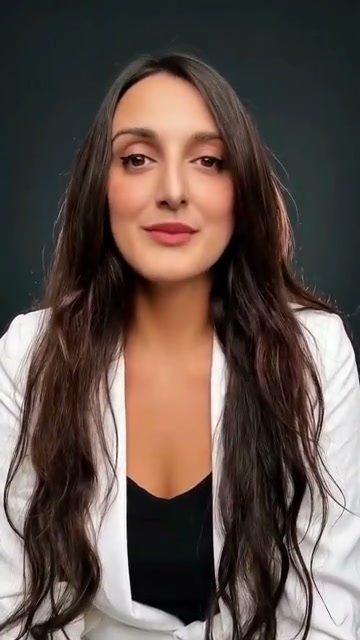
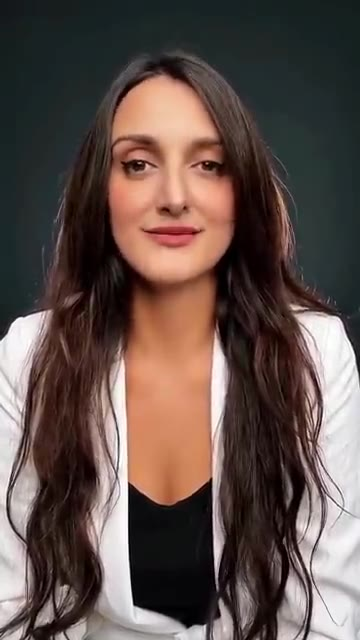
feat(видео): виджет с ленивой загрузкой, обложка — кадр 15.6 с
- <video> без src до клика: страница не тянет 963 КБ видео при загрузке
- обложка-кадр со спокойным лицом (jpg 29 КБ + webp 20 КБ вместо 41 КБ)
- кружок в углу появляется после 400 px прокрутки, прячется крестиком
- закрытие по Esc и клику по фону, пауза при закрытии

diff --git a/site/site.css b/site/site.css
@@ -3232,3 +3232,42 @@ h2.levels-title{position:relative;z-index:1;max-width:1180px;margin:0 auto clamp
 @media (max-width:560px){
   .quiz-ways{grid-template-columns:repeat(2,minmax(0,1fr));}
 }
+
+/* ═══ Видеовиджет: кружок в углу + окно с видео ═══════════════════
+   Обложка — обычная картинка (кадр 15.6 с), само видео грузится
+   только по клику: <video> без src, скрипт подставляет его при
+   открытии. Поэтому виджет ничего не стоит при загрузке страницы. */
+.vw{position:fixed;right:clamp(12px,2vw,26px);bottom:clamp(12px,2vw,26px);z-index:55;}
+.vw[hidden]{display:none;}
+.vw-bubble{
+  display:block;width:clamp(74px,8vw,104px);aspect-ratio:1;padding:0;
+  border:2px solid rgba(241,233,220,.22);border-radius:50%;overflow:hidden;
+  background:var(--card);cursor:pointer;position:relative;
+  box-shadow:0 14px 34px rgba(0,0,0,.42);
+  transition:transform .25s var(--ease),border-color .25s var(--ease);
+}
+.vw-bubble:hover{transform:translateY(-2px) scale(1.03);border-color:var(--green);}
+.vw-bubble img{width:100%;height:100%;object-fit:cover;object-position:50% 22%;display:block;}
+/* треугольник «плей» поверх кадра */
+.vw-play{
+  position:absolute;left:50%;bottom:9%;translate:-50% 0;
+  width:26px;height:26px;border-radius:50%;background:var(--green);
+  display:grid;place-items:center;
+}
+.vw-play::before{content:"";border:6px solid transparent;border-left:9px solid var(--graphite);margin-left:4px;}
+.vw-hide{
+  position:absolute;top:-4px;right:-4px;width:22px;height:22px;padding:0;
+  border:1px solid var(--line);border-radius:50%;background:var(--card);
+  color:var(--grey);font:400 14px/1 var(--sans);cursor:pointer;
+}
+.vw-hide:hover{color:var(--cream);border-color:var(--green);}
+.vw-card{position:relative;width:min(360px,86vw);}
+.vw-video{
+  display:block;width:100%;height:auto;aspect-ratio:9/16;
+  border-radius:var(--radius);background:#000;
+}
+.vw-x{position:absolute;top:-46px;right:0;}
+@media (prefers-reduced-motion:reduce){
+  .vw-bubble{transition:none;}
+  .vw-bubble:hover{transform:none;}
+}

diff --git a/site/site.js b/site/site.js
@@ -770,4 +770,45 @@
     faqList.addEventListener('toggle', syncFaqHint, true);
   }
 
+  // Видеовиджет. Ключевое: у <video> нет src до первого клика — иначе
+  // браузер начинает тянуть файл вместе со страницей. Src ставим один
+  // раз при открытии, дальше видео уже в кеше и открывается мгновенно.
+  var vw = document.getElementById('video-widget');
+  var vwModal = document.getElementById('video-modal');
+  if (vw && vwModal) {
+    var vwVideo = vwModal.querySelector('.vw-video');
+    var vwSrc = 'assets/ash-video-widget-lite.mp4';
+    var vwOpen = function () {
+      if (!vwVideo.getAttribute('src')) { vwVideo.setAttribute('src', vwSrc); }
+      vwModal.hidden = false;
+      document.body.style.overflow = 'hidden';
+      vwModal.querySelector('.vw-x').focus();
+      var p = vwVideo.play();
+      if (p && p.catch) { p.catch(function () {}); }
+    };
+    var vwClose = function () {
+      vwVideo.pause();
+      vwModal.hidden = true;
+      document.body.style.overflow = '';
+      vw.querySelector('.vw-bubble').focus();
+    };
+    vw.querySelector('.vw-bubble').addEventListener('click', vwOpen);
+    var vwDismissed = false;
+    vw.querySelector('.vw-hide').addEventListener('click', function () {
+      vwDismissed = true;
+      vw.hidden = true;
+    });
+    vwModal.addEventListener('click', function (e) {
+      if (e.target.closest('[data-vw-close]')) { vwClose(); }
+    });
+    document.addEventListener('keydown', function (e) {
+      if (e.key === 'Escape' && !vwModal.hidden) { vwClose(); }
+    });
+    // пока пользователь наверху страницы, кружок не мешает первому экрану
+    vw.hidden = true;
+    var vwToggle = function () { vw.hidden = vwDismissed || window.scrollY < 400; };
+    vwToggle();
+    window.addEventListener('scroll', vwToggle, { passive: true });
+  }
+
 })();

diff --git a/site/index.html b/site/index.html
@@ -1325,6 +1325,32 @@
     </div>
   </div>
 
+  <!-- Видеовиджет: кружок в углу экрана.
+       До клика не грузится ни байта видео — виден только кадр-обложка
+       (assets/ash-video-widget-poster.*, кадр 15.6 с). Файл видео
+       подставляется в <video> скриптом в момент открытия окна,
+       поэтому виджет не влияет на скорость загрузки страницы. -->
+  <div class="vw" id="video-widget">
+    <button class="vw-bubble" type="button" aria-label="Смотреть видео о нас">
+      <picture>
+        <source srcset="assets/ash-video-widget-poster.webp" type="image/webp">
+        <img src="assets/ash-video-widget-poster.jpg" alt="" width="360" height="640" loading="lazy" decoding="async">
+      </picture>
+      <span class="vw-play" aria-hidden="true"></span>
+    </button>
+    <button class="vw-hide" type="button" aria-label="Скрыть видео">×</button>
+  </div>
+
+  <div class="lv-modal vw-modal" id="video-modal" hidden>
+    <div class="lv-modal-back" data-vw-close></div>
+    <div class="vw-card" role="dialog" aria-modal="true" aria-label="Видео о нас">
+      <button class="lv-modal-x vw-x" type="button" data-vw-close aria-label="Закрыть">×</button>
+      <video class="vw-video" playsinline controls preload="none"
+             poster="assets/ash-video-widget-poster.jpg"
+             width="360" height="640"></video>
+    </div>
+  </div>
+
   <!-- Окно с квизом. Любая кнопка сайта открывает его здесь, а не уводит
        прокруткой в подвал. Сама форма одна на весь сайт: скрипт переносит
        её сюда на время показа и возвращает на место в подвал при закрытии.

diff --git a/docs/site-map.md b/docs/site-map.md
@@ -44,6 +44,14 @@ cd site && grep -n "<!-- [0-9]\|<section" index.html && grep -n "^/\* ═══\
 | 496 | 05b · Кейс Алмазное бурение | `.casebig` `#case2` |
 | 612 | 06 · С чего начать | `#audit` `.tariffs` |
 | 642 | 07 · Финал, контакты | `.closer` `#closer` |
+| перед `#quiz-modal` | Видеовиджет (кружок в углу + окно с видео) | `.vw` `#video-widget`, `.vw-modal` `#video-modal` |
+
+**Видеовиджет.** Обложка — `assets/ash-video-widget-poster.jpg/.webp`
+(кадр 15.6 с, спокойное лицо). Само видео `ash-video-widget-lite.mp4`
+(963 КБ, 360×640, faststart) **не грузится до клика**: у `<video>` нет
+`src`, скрипт ставит его при открытии окна. Кружок появляется после
+400 px прокрутки, крестик прячет его до перезагрузки. Стили — в конце
+`site.css` (блок «Видеовиджет»), логика — в конце `site.js`.
 
 Строки 39–40 — inline-SVG знака бренда (по 4 тыс. символов). Вынести в
 файл нельзя: он красится через `var(--ash-cream)` и `.mk-arc` из CSS.
